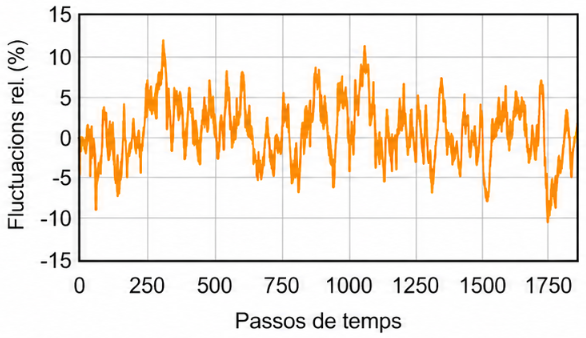
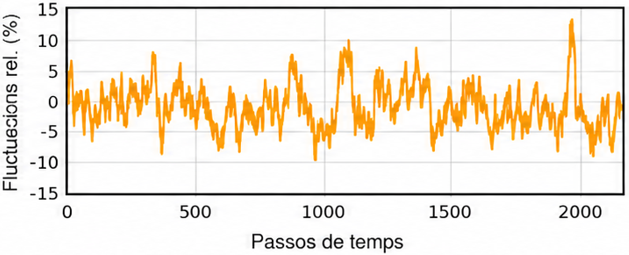
h

diff --git a/Treball de Simulació/Latex/Treball de Simulació.tex b/Treball de Simulació/Latex/Treball de Simulació.tex
@@ -114,8 +114,8 @@ En aquesta secció estudiarem un gas d'esferes dures. En aquest model, s'assumei
 	\Phi(r) =
 \begin{cases}
 	 0 & \text{si } r>2r_0 \\
-	 \infty & \text{si } r<2r_0
-\end{cases}
+	 \infty & \text{si } r<2r_0 
+\end{cases} \label{eq:1.1}
 \end{equation}
 on $r$ és la distància entre dues partícules qualsevols i $r_0$ el seu radi atòmic. Un dels gasos que millor s'adapta experimentalment a aquest tipus de potencials és l'He. Així doncs en aquesta part estudiarem l'He gas modelitzat segons aquest potencial. Treballarem en tot moment amb una simulació amb $N = 500$ àtoms d'He amb una massa de $m_{He} = 6,646 \cross 10^{-27}$ kg per àtom, a una temperatura de $T = 300$ K i compresos en una caixa cúbica de volum $V = 1$ m$^3$.
 
@@ -123,7 +123,7 @@ Els nostres objectius seran:
 \begin{itemize}
 	\item Estudiar com es veuen modificats els resultats de la simulació (la distribució de velocitats, entre d'altres), en funció del radi atòmic $r_0$ donat als àtoms d'He. A partir d'aquí seleccionar un radi òptim per a la resta de simulacions en funció dels resultats anteriors.
 	\item Modificar la simulació original per tal que treballi sota la col·lectivitat canònica, utilitzant un termostat d'Andersen, tot analitzant la distribució d'energies que en resulta.
-	\item Introduir a la simulació la presència d'un camp gravitatori en l'eix Z i veure com això afecta a la distribució de velocitats i les posicions en aquest mateix eix.
+	\item Introduir a la simulació la presència d'un camp gravitatori en l'eix Z i veure com això afecta a la distribució de velocitats i les posicions en aquest mateix eix de coordenades.
 \end{itemize}
 
 Recordem que, en equilibri tèrmic, la distribució de velocitats (o, més rigorosament, de celeritats) per un conjunt de partícules ve determinada per la distribució de Maxwell-Boltzmann
@@ -146,7 +146,7 @@ Notem que la simulació inicial, tal i com veurem, treballarà amb uns paràmetr
 \end{equation}
 on $f$ és el nombre de graus de llibertat. Existeix, per tant, una relació entre la velocitat (variable microscòpica associada a les partícules del gas) i la temperatura (variable macroscòpica).
 
-Així doncs, en fixar el valor de la temperatura a la simulació, el que estem fent veritablement és fixar un valor per a l'energia cinètica mitjana del gas i, per tant, per a l'energia $E$. Com que les variables que queden fixes són $N$, $V$ i $E$, la col·lectivitat amb la que treballem serà, doncs, la col·lectivitat microcanònica. Al segon apartat d'aquesta secció modificarem la simulació per adaptar-la, aquesta vegada sí, a una col·lectivitat tipus canònica.
+Així doncs, en fixar el valor de la temperatura a la simulació, el que estem fent veritablement és fixar un valor per a l'energia cinètica mitjana del gas i, per tant, per a l'energia $E$. Com que les variables que queden fixes són $N$, $V$ i $E$, la col·lectivitat amb la que treballem serà, doncs, la col·lectivitat microcanònica. Al segon apartat d'aquesta secció modificarem la simulació per adaptar-la, aquesta vegada sí, a una col·lectivitat tipus NVT (canònica).
 
 
 \section{Estudi dels efectes del radi atòmic de l'He}
@@ -348,9 +348,9 @@ que serà la distribució d'energies teòriques. Així doncs, de forma similar a
 Per altra banda, per veure si hem passat de la col·lectivitat NVE (microcanònica) a la col·lectivitat NVT (canònica), és interessant veure quin és el comportament de l'energia total del sistema en funció del temps. Els resultats que hem d'esperar, en cada cas, són els següents:
 \begin{itemize}
 	\item \textbf{Col·lectivitat NVE.} Com que l'energia total del sistema està fixada, hauríem de veure com la corba $E(t)$ és constant, de manera que l'energia del sistema és la mateixa $\forall t$.
-	\item \textbf{Col·lectivitat NVT.} Tal i com vàrem estudiar, en la col·lectivitat canònica l'energia ja no està fixada (per contrapartida $T$ sí que ho està), de manera que s'introdueixen un seguit de fluctuacions energètiques. Per veure si els nostres resultats experimentals s'adeqüen, efectivament, a la col·lectivitat canònica, és interessant estudiar com són aquestes fluctuacions. 
+	\item \textbf{Col·lectivitat NVT.} Tal i com vàrem estudiar, en la col·lectivitat canònica l'energia ja no està fixada (per contrapartida $T$ sí que ho està), de manera que s'introdueixen un seguit de fluctuacions energètiques. Per veure si els nostres resultats experimentals s'adeqüen a la col·lectivitat canònica, és interessant estudiar quina és la seva naturalesa. 
 	
-	Recordem que \textbf{POSAR ANNEX O CITAR DE TEORIA} les fluctuacions relatives venen donades per
+	Recordem que \textbf{POSAR ANNEX O CITAR DE TEORIA} les fluctuacions relatives en l'energia total del sistema venen donades per
 	\begin{equation}
 		\frac{\sigma_E}{\langle E \rangle} = \frac{\sqrt{\langle E^2 \rangle - \langle E \rangle^2}}{\langle E \rangle} = \frac{\sqrt{k_BT^2 C_V}}{\langle E \rangle},
 	\end{equation}
@@ -361,8 +361,8 @@ Per altra banda, per veure si hem passat de la col·lectivitat NVE (microcanòni
 	de manera que, en el límit termodinàmic $N \rightarrow \infty$, hauríem d'observar com les fluctuacions relatives tendeixen a zero.
 \end{itemize}
 
-\subsection{Discussió dels resultats}
-Tot seguit mostrem i discutim quins han estat els principals resutlats de les simulacions del sistema del gas d'esferes dures sota col·lectivitat NVE (sense el termostat d'Andersen) i NVT (amb el termostat d'Andersen). Ens centrem en l'estudi de la distribució d'energies, l'energia total en funció del temps i les fluctuacions de l'energia total. Com que les energies són petites\footnote{Les simulacions són, aproximadament, a temperatura ambient, de manera que $k_BT \approx 4,1 \cross 10^{-21}$.} convé treballar en l'escala dels eV (1 eV $= 1,602\cross 10^{-19}$); cada pas de temps de la simulació equival a $\mathrm{d}t = 10^{-5}$ s. 
+\subsection{Anàlisi dels resultats}
+Tot seguit mostrem i discutim quins han estat els principals resutlats de les simulacions del sistema del gas d'esferes dures sota col·lectivitat NVE (sense el termostat d'Andersen) i NVT (amb el termostat d'Andersen). Ens centrem en l'estudi de la distribució d'energies, l'energia total en funció del temps i les fluctuacions de l'energia total. Com que les energies són petites\footnote{Les simulacions són, aproximadament, a temperatura ambient, de manera que $k_BT \approx 4,1 \cross 10^{-21}$.} convé treballar en l'escala dels eV (1 eV $= 1,602\cross 10^{-19}$ J); cada pas de temps de la simulació equival a $\mathrm{d}t = 10^{-5}$ s. 
 
 Abans d'implementar el termostat d'Andersen es va simular el sistema sota col·lectivitat NVE per veure que l'energia en funció del era, efectivament, constant (vegeu la figura \ref{fig:1.8}).
 
@@ -398,13 +398,13 @@ Per altra banda, podem observar com, tal i com era d'esperar, l'energia total de
 		\label{fig:1.9a}
 	\end{subfigure}
 	\hfill
-	\begin{subfigure}{0.45\linewidth}
+	\begin{subfigure}{0.44\linewidth}
 		\centering
 		\includegraphics[width=\linewidth]{termo_E_t}
 		\caption{Energia total en funció del temps.}
 		\label{fig:1.9b}
 	\end{subfigure}
-	\caption{Distribució d'energies i $E(t)$ pel gas d'esferes dures amb el termostat d'Andersen (col·lectivitat NVT) després de $\approx 1900$ passos de temps. La corba blava representa la predicció teòrica, en el cas de la distribució d'energies.}
+	\caption{Distribució d'energies i $E(t)$ pel gas d'esferes dures amb el termostat d'Andersen (col·lectivitat NVT) després de $\approx 2200$ passos de temps. La corba blava representa la predicció teòrica, en el cas de la distribució d'energies.}
 	\label{fig:1.9}
 \end{figure}
 
@@ -412,9 +412,11 @@ Per altra banda, podem observar com, tal i com era d'esperar, l'energia total de
 
 
 
-Els resultats experimentals obtinguts després de fer la implementació del termostat d'Andersen han estat els següents. Podem veure com la distribució d'energies (vegeu figura \ref{fig:1.9a}) segueix obeint l'estadística de Maxwell-Boltzmann un cop s'assoleix l'equilibri tèrmic, com era d'esperar. Això en cap moment canviarà, ja que la única funció del termostat és actualitzar les velocitats de les partícules que interaccionen amb el bany tèrmic de manera que adquireixin una velocitat escollida aleatòriament segons la distribució de Maxwell-Boltzmann. 
+Els resultats experimentals obtinguts després de fer la implementació del termostat d'Andersen han estat els següents. Podem veure com la distribució d'energies (vegeu figura \ref{fig:1.9a}) segueix obeint l'estadística de Maxwell-Boltzmann un cop s'assoleix l'equilibri tèrmic, com era d'esperar. Això en cap moment canviarà, ja que la única funció del termostat és actualitzar les velocitats de les partícules que interaccionen amb el bany tèrmic de manera que adquireixin una velocitat escollida aleatòriament segons la distribució de Maxwell-Boltzmann. Sí que observem, però, com s'assoleix l'equilibri tèrmic i, per tant, la distribució d'energies simulada esdevé més propera a la teòrica, més ràpidament que en el cas anterior, en el que no havíem implementat el model d'Andersen. Això és, naturalment, una conseqüència lògica de que, en la implementació del termostat, fem que les partícules seleccionades adquireixin, per força, una velocitat segons la distribució teòrica. 
 
-Pel que fa a l'energia total, podem veure clarament (vegeu figura \ref{fig:1.9b}) com s'introdueixen un seguit de fluctuacions respecte al valor inicial. Això és degut a que, com ja s'ha discutit prèviament, per tal de garantir que en tot moment treballem a $T$ constant, el bany tèrmic introdueix o extreu energia del sistema (en el nostre cas, a través de les partícules fictícies). Les fluctuacions esmentades es poden veure a la FIGURA
+Pel que fa a l'energia total, podem veure clarament (vegeu figura \ref{fig:1.9b}) com s'introdueixen un seguit de fluctuacions respecte al valor inicial. Això és degut a que, com ja s'ha discutit prèviament, per tal de garantir que en tot moment treballem a $T$ constant, el bany tèrmic introdueix o extreu energia del sistema (en el nostre cas, a través de les partícules fictícies). 
+
+Les fluctuacions relatives per l'energia total es poden veure a la figura \ref{fig:1.10}. Podem veure que són consistents amb el que cabria esperar: l'energia fluctua al voltant del valor inicial com a conseqüència de la interacció entre el sistema i el bany tèrmic. Si repetim la mateixa simulació però alterant el nombre de partícules $N$ i representem les corresponents fluctuacions relatives, obtenim els resultats que es poden veure a la figura \ref{fig:1.11}. Podem veure que, tal i com hem comentat prèviament, conforme $N$ augmenta, les fluctuacions relatives disminueixen, és a dir, per $N$ majors, les fluctuacions en l'energia estan més confinades al voltant del valor inicial i, en el límit termodinàmic $N\rightarrow \infty$, hauríem d'esperar veure com aquestes fluctuacions es redueixen a zero, cosa que ens permetria identificar $\langle E \rangle$, el valor esperat de l'energia, amb $U$, l'energia interna del sistema (des del punt de vista termodinàmic).
 
 \begin{figure}[h]
 	\centering
@@ -423,16 +425,40 @@ Pel que fa a l'energia total, podem veure clarament (vegeu figura \ref{fig:1.9b}
 	\label{fig:1.10}
 \end{figure}
 
+\begin{figure}[h]
+	\centering
+	\begin{subfigure}{0.45\linewidth}
+		\centering
+		\includegraphics[width=\linewidth]{termo_flucs_N100}
+		\caption{Fluctuacions relatives per $N = 100$.}
+		\label{fig:1.11a}
+	\end{subfigure}
+	\hfill
+	\begin{subfigure}{0.45\linewidth}
+		\centering
+		\includegraphics[width=\linewidth]{termo_flucs_N1000}
+		\caption{Fluctuacions relatives per $N=1000$.}
+		\label{fig:1.11b}
+	\end{subfigure}
+	\caption{Fluctuacions relatives per $N = 100$ i $N=1000$. Podem observar com, conforme $N$ augmenta, les fluctuacions relatives disminueixen.}
+	\label{fig:1.11}
+\end{figure}
+
+
 \textcolor{red}{\textbf{Coses a posar:}}
 \begin{itemize}
-	\item \textcolor{red}{\textbf{Modificar les gràfiques (la simulació estava al revés :(. )}}
+	\item \textcolor{red}{\textbf{Modificar les gràfiques (la simulació estava al revés :( ).}}
 	\item \textcolor{red}{\textbf{Discutir si les fluctuacions relatives estan bé (si estan bé tot okai, sinó cagada astronòmica).}}
 	\item \textcolor{red}{\textbf{Analitzar si en fer el límit TMD se satisfà que la variància se va a tomar por culo (hauria de ser així i es guay perquè demsotra que està bé).}}
 	\item \textcolor{red}{\textbf{Discutir com, en afegir el termostat d'Andersen, es convergeix més ràpidament a l'estadística de Boltzmann.}}
 	\item \textcolor{red}{\textbf{Problemàtica del termostat d'Andersen. No conservació del moment lineal i de l'energia.}}
+	\item \textcolor{red}{\textbf{Potser és interessant posar gràfics de T abans i després d'Andersen.}}
 \end{itemize}
 
 \subsection{Conclusions}
+En aquesta secció hem implementat un termostat d'Andersen per tal de poder mantenir la temperatura $T$ constant en el nostre sistema, tot passant d'una simulació d'un gas d'esferes dures en col·lectivitat NVE (microcanònica) a col·lectivitat NVT (canònica). Hem observat com, efectivament, en implementar el model d'Andersen apareixen les característiques típiques del col·lectiu canònic, això és, en essència, fluctuacions en l'energia. Hem constatat com, efectivament, aquestes fluctuacions en l'energia són coherents amb el que cabria esperar experimentalment i s'adeqüen a la predicció teòrica que assegura que han de disminuir conforme augmenta el nombre de partícules $N$ del sistema. 
+
+Així doncs, tot i les limitacions discutides associades a aquest tipus de termostat, essent la més destacable la no conservació de l'energia i el moment lineal com a conseqüència del procés estocàstic en el que aquest model es fonamental, hem pogut simular una molt bona primera aproximació del comportament de l'He gas, modelitzat segons el potencial d'esferes dures (vegeu l'equació \eqref{eq:1.1}), a temperatura $T$ constant. En cas de voler obtenir uns resultats més fiables i pròxims a la realitat, evitant les no conservacions de les constants del moviment, caldria escollir millors algoritmes per modelitzar la interacció del sistema amb un bany tèrmic, com ara bé el termostat de Nosé-Hoover o altres.
 
 \section{Addició d'un potencial gravitatori} 
 
@@ -530,7 +556,7 @@ No sé tampoc on se'm donen aquests valors al programa wtf.
 \bibitem{ref2}
 Arcila Pérez, J. \textit{Revisión bibliográfica sobre dinámica molecular. Modelización, algoritmos y aplicaciones}. Universidad de Granada.
 \bibitem{ref3}
-Frenkel, D. \textit{Understanding Molecular Simulation. From Algorithms to Aplications}. Academic Press. Capítol 6.
+Frenkel, D. \textit{Understanding Molecular Simulation. From Algorithms to Aplications}. 3a Edició. Academic Press. Capítol 7.
 \end{thebibliography}
 
 \end{document}

diff --git a/Treball de Simulació/Gas d'Esferes Dures/Hard_Sphere_Gas_mod_Andersen.py b/Treball de Simulació/Gas d'Esferes Dures/Hard_Sphere_Gas_mod_Andersen.py
@@ -120,26 +120,6 @@ while True:
     # 2) Fem que totes les partícules es moguin segons r_i = r_i(inicial) + v_i * dt = r_i(inicial) + p_i/m * dt.
     for i in range(Natoms): Atoms[i].pos = apos[i] = apos[i] + (p[i]/mass)*dt
     
-    # --------------------------------------
-    # IMPLEMENTACIÓ DEL TERMOSTAT D'ANDERSEN
-    # --------------------------------------
-
-
-    for i in range (Natoms):
-        if random() < nu * dt:
-            theta = pi*random()
-            phi = 2*pi*random()
-
-            p_mag = sqrt(2*mass*1.5*k*T)
-
-            p[i] = vector(
-                p_mag*sin(theta)*cos(phi),
-                p_mag*sin(theta)*sin(phi),
-                p_mag*cos(theta)
-            )
-
-
-
     # 3) Busquem quins àtoms han xocat.
     hitlist = checkCollisions()
 
@@ -196,4 +176,21 @@ while True:
             if loc.z < 0: p[i].z =  abs(p[i].z)
             else: p[i].z =  -abs(p[i].z)
 
+    # --------------------------------------
+    # IMPLEMENTACIÓ DEL TERMOSTAT D'ANDERSEN
+    # --------------------------------------
+
+
+    for i in range (Natoms):
+        if random() < nu * dt:
+            theta = pi*random()
+            phi = 2*pi*random()
+
+            p_mag = sqrt(2*mass*1.5*k*T)
+
+            p[i] = vector(
+                p_mag*sin(theta)*cos(phi),
+                p_mag*sin(theta)*sin(phi),
+                p_mag*cos(theta)
+            )
     

diff --git a/Treball de Simulació/Gas d'Esferes Dures/distr_energies_termo.py b/Treball de Simulació/Gas d'Esferes Dures/distr_energies_termo.py
@@ -4,7 +4,7 @@ import math
 import random
 
 win = 500
-Natoms = 500 # Nombre d'àtoms ajustat a 200 para rendimiento.
+Natoms = 1000 # Nombre d'àtoms ajustat a 200 para rendimiento.
 
 # Paràmetres de la simulació (tots els valors estan en SI).
 L = 1 
@@ -179,8 +179,6 @@ while True:
     for i in range(Natoms):
         Atoms[i].pos = apos[i] = apos[i] + (p[i]/mass)*dt
 
-    
-    
     # 3) Busquem quins àtoms han xocat.
     hitlist = checkCollisions()
 